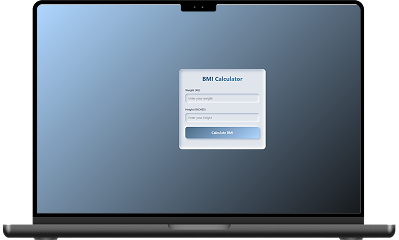
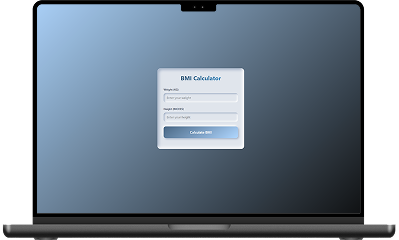
latestwork part responsive add

Changed region(s): [[0.391, 0.2625, 0.6917, 0.6417], [0.5414, 0.0, 0.9023, 0.0292], [0.1203, 0.0, 0.4511, 0.0292]]

diff --git a/src/Components/LatestWorks/LatestWork.jsx b/src/Components/LatestWorks/LatestWork.jsx
@@ -12,16 +12,16 @@ const LatestWork = () => {
         <section className='px-4 bg-dark relative'>
             <Conteiner>
                 <div>
-                    <h2 className='relative bg-dark z-10 text-[40px] font-bold font-button w-max mx-auto text-center text-primary py-2 px-5 border-b-2 border-primary'>Latest Works</h2>
+                    <h2 className='relative bg-dark z-10 text-3xl sm:text-[40px] font-bold font-button w-max mx-auto text-center text-primary py-2 px-5 sm:border-b-2 border-primary'>Latest Works</h2>
                 </div>
-                <div className='flex gap-[80px] items-center relative'>
-                    <div className='h-[1px] left-1/4 right-1/2 bg-[#373AA0] absolute top-1/2'></div>
-                    <div className='h-4 w-4 rounded-full border-[3px] border-[#373AA0] absolute left-1/2 -translate-x-1/2 bg-dark z-10 cursor-pointer hover:scale-115 ease-in-out duration-100'></div>
-                    <div className='w-full flex mt-2.5'>
-                        <span className='relative group hover:scale-105 ease-in-out duration-200'>
+                <div className='flex flex-col sm:flex-row gap-4 sm:gap-[80px] items-center relative mt-11 sm:mt-0'>
+                    <div className='hidden sm:block h-[1px] left-1/4 right-1/2 bg-[#373AA0] absolute top-1/2'></div>
+                    <div className='hidden sm:block h-4 w-4 rounded-full border-[3px] border-[#373AA0] absolute left-1/2 -translate-x-1/2 bg-dark z-10 cursor-pointer hover:scale-115 ease-in-out duration-100'></div>
+                    <div className='w-full justify-center sm:justify-start flex mt-2.5'>
+                        <span className='relative group sm:hover:scale-105 ease-in-out duration-200'>
                             <a href="#" className=''>
                                 <img src={Innovate} alt="" />
-                                <div className='tooltip bg-[#373AA0] text-white py-2 px-5 font-semibold rounded-[5px] font-button items-center absolute top-[-16px] left-1/2 -translate-x-1/2 after:content[""] after:absolute after:w-[16px] after:h-[16px] after:left-1/2 after:-translate-x-1/2 after:bottom-[-8px] after:rotate-45 after:bg-[#373AA0] group-hover:top-[-55px] group-hover:opacity-100 ease-in-out duration-200 opacity-0'>
+                                <div className='tooltip bg-[#373AA0] text-white text-sm sm:text-base py-2 px-5 mt-2.5 sm:mt-0 font-semibold rounded w-max mx-auto font-button items-center sm:absolute top-[-16px] left-1/2 sm:-translate-x-1/2 after:content[""] after:hidden sm:after:block after:absolute after:w-[16px] after:h-[16px] after:left-1/2 after:-translate-x-1/2 after:bottom-[-8px] after:rotate-45 after:bg-[#373AA0] group-hover:top-[-55px] group-hover:opacity-100 ease-in-out duration-200 opacity-100 sm:opacity-0'>
                                     <span className='relative z-10 flex items-center gap-1'>
                                         Innovate
                                         <FiExternalLink />
@@ -31,29 +31,29 @@ const LatestWork = () => {
                         </span>
                     </div>
                     <div className='w-full'>
-                        <h3 className='font-button font-bold text-4xl text-[#373AA0] mt-8 mb-[7px]'>Innovate</h3>
-                        <span className='font-button text-lg text-[#373AA0]'>(Management Tool)</span>
-                        <p className='font-button text-justify text-white my-4 max-w-[584.594px]'>This project was created React.This is my first project made with React and this is a helpful site for everyone.</p>
+                        <h3 className='font-button font-bold text-2xl md:text-4xl text-[#373AA0] mt-4 mb-1 md:mt-8 md:mb-[7px]'>Innovate</h3>
+                        <span className='font-button text-base md:text-lg text-[#373AA0]'>(Management Tool)</span>
+                        <p className='font-button text-justify text-white text-sm md:text-base my-2.5 md:my-4 max-w-[584.594px]'>This project was created React.This is my first project made with React and this is a helpful site for everyone.</p>
                         <ul className='flex flex-wrap font-button text-white my-3.5'>
-                            <li className='border border-[#444] py-[5.5px] px-[10px] mb-[6.8px] mr-[6.8px] rounded-[50px] text-[13.6px]'>#javascript</li>
-                            <li className='border border-[#444] py-[5.5px] px-[10px] mb-[6.8px] mr-[6.8px] rounded-[50px] text-[13.6px]'>#react.js</li>
-                            <li className='border border-[#444] py-[5.5px] px-[10px] mb-[6.8px] mr-[6.8px] rounded-[50px] text-[13.6px]'>#html</li>
-                            <li className='border border-[#444] py-[5.5px] px-[10px] mb-[6.8px] mr-[6.8px] rounded-[50px] text-[13.6px]'>#css</li>
-                            <li className='border border-[#444] py-[5.5px] px-[10px] mb-[6.8px] mr-[6.8px] rounded-[50px] text-[13.6px]'>#tailwind</li>
-                            <li className='border border-[#444] py-[5.5px] px-[10px] mb-[6.8px] mr-[6.8px] rounded-[50px] text-[13.6px]'>#github</li>
-                            <li className='border border-[#444] py-[5.5px] px-[10px] mb-[6.8px] mr-[6.8px] rounded-[50px] text-[13.6px]'>#git</li>
-                            <li className='border border-[#444] py-[5.5px] px-[10px] mb-[6.8px] mr-[6.8px] rounded-[50px] text-[13.6px]'>#figma</li>
+                            <li className='border border-[#444] py-[5.5px] px-[10px] mb-[6.8px] mr-[6.8px] rounded-[50px] text-sm md:text-base'>#javascript</li>
+                            <li className='border border-[#444] py-[5.5px] px-[10px] mb-[6.8px] mr-[6.8px] rounded-[50px] text-sm md:text-base'>#react.js</li>
+                            <li className='border border-[#444] py-[5.5px] px-[10px] mb-[6.8px] mr-[6.8px] rounded-[50px] text-sm md:text-base'>#html</li>
+                            <li className='border border-[#444] py-[5.5px] px-[10px] mb-[6.8px] mr-[6.8px] rounded-[50px] text-sm md:text-base'>#css</li>
+                            <li className='border border-[#444] py-[5.5px] px-[10px] mb-[6.8px] mr-[6.8px] rounded-[50px] text-sm md:text-base'>#tailwind</li>
+                            <li className='border border-[#444] py-[5.5px] px-[10px] mb-[6.8px] mr-[6.8px] rounded-[50px] text-sm md:text-base'>#github</li>
+                            <li className='border border-[#444] py-[5.5px] px-[10px] mb-[6.8px] mr-[6.8px] rounded-[50px] text-sm md:text-base'>#git</li>
+                            <li className='border border-[#444] py-[5.5px] px-[10px] mb-[6.8px] mr-[6.8px] rounded-[50px] text-sm md:text-base'>#figma</li>
                         </ul>
                     </div>
                 </div>
-                <div className='flex flex-row-reverse gap-[80px] items-center relative mt-[58px]'>
-                    <div className='h-[1px] right-1/4 left-1/2 bg-[#2B8761] absolute top-1/2'></div>
-                    <div className='h-4 w-4 rounded-full border-[3px] border-[#2B8761] absolute left-1/2 -translate-x-1/2 bg-dark z-10 cursor-pointer hover:scale-115 ease-in-out duration-100'></div>
-                    <div className='w-full justify-end flex mt-2.5'>
-                        <span className='relative group hover:scale-105 ease-in-out duration-200'>
+                <div className='flex flex-col sm:flex-row-reverse gap-4 sm:gap-[80px] items-center relative mt-11 sm:mt-[58px]'>
+                    <div className='hidden sm:block h-[1px] right-1/4 left-1/2 bg-[#2B8761] absolute top-1/2'></div>
+                    <div className='hidden sm:block h-4 w-4 rounded-full border-[3px] border-[#2B8761] absolute left-1/2 -translate-x-1/2 bg-dark z-10 cursor-pointer hover:scale-115 ease-in-out duration-100'></div>
+                    <div className='w-full justify-center sm:justify-end flex mt-2.5'>
+                        <span className='relative group sm:hover:scale-105 ease-in-out duration-200'>
                             <a href="#" className=''>
                                 <img src={cleaning} alt="" />
-                                <div className='tooltip bg-[#2B8761] text-black py-2 px-5 font-semibold rounded-[5px] font-button items-center absolute top-[-16px] left-1/2 -translate-x-1/2 after:content[""] after:absolute after:w-[16px] after:h-[16px] after:left-1/2 after:-translate-x-1/2 after:bottom-[-8px] after:rotate-45 after:bg-[#2B8761] group-hover:top-[-55px] group-hover:opacity-100 ease-in-out duration-200 opacity-0'>
+                                <div className='tooltip bg-[#2B8761] text-black text-sm sm:text-base py-2 px-5 mt-2.5 sm:mt-0 font-semibold rounded w-max mx-auto font-button items-center sm:absolute top-[-16px] left-1/2 sm:-translate-x-1/2 after:content[""] after:hidden sm:after:block after:absolute after:w-[16px] after:h-[16px] after:left-1/2 after:-translate-x-1/2 after:bottom-[-8px] after:rotate-45 after:bg-[#2B8761] group-hover:top-[-55px] group-hover:opacity-100 ease-in-out duration-200 opacity-100 sm:opacity-0'>
                                     <span className='relative z-10 flex items-center gap-1'>
                                         Cleaning
                                         <FiExternalLink />
@@ -63,28 +63,28 @@ const LatestWork = () => {
                         </span>
                     </div>
                     <div className='w-full'>
-                        <h3 className='font-button font-bold text-4xl text-[#2B8761] mt-8 mb-[7px]'>Cleaning</h3>
-                        <span className='font-button text-lg text-[#2B8761]'>(Digital Marketing Agency)</span>
+                        <h3 className='font-button font-bold text-2xl md:text-4xl text-[#2B8761] mt-8 mb-[7px]'>Cleaning</h3>
+                        <span className='font-button text-base md:text-lg text-[#2B8761]'>(Digital Marketing Agency)</span>
                         <p className='font-button text-justify text-white my-4 max-w-[584.594px]'>This project was created Bootstrap .This is my first project made with Bootstrap and this is a helpful site for everyone .</p>
                         <ul className='flex flex-wrap font-button text-white my-3.5'>
-                            <li className='border border-[#444] py-[5.5px] px-[10px] mb-[6.8px] mr-[6.8px] rounded-[50px] text-[13.6px]'>#javascript</li>
-                            <li className='border border-[#444] py-[5.5px] px-[10px] mb-[6.8px] mr-[6.8px] rounded-[50px] text-[13.6px]'>#html</li>
-                            <li className='border border-[#444] py-[5.5px] px-[10px] mb-[6.8px] mr-[6.8px] rounded-[50px] text-[13.6px]'>#css</li>
-                            <li className='border border-[#444] py-[5.5px] px-[10px] mb-[6.8px] mr-[6.8px] rounded-[50px] text-[13.6px]'>#bootstrap</li>
-                            <li className='border border-[#444] py-[5.5px] px-[10px] mb-[6.8px] mr-[6.8px] rounded-[50px] text-[13.6px]'>#github</li>
-                            <li className='border border-[#444] py-[5.5px] px-[10px] mb-[6.8px] mr-[6.8px] rounded-[50px] text-[13.6px]'>#git</li>
-                            <li className='border border-[#444] py-[5.5px] px-[10px] mb-[6.8px] mr-[6.8px] rounded-[50px] text-[13.6px]'>#figma</li>
+                            <li className='border border-[#444] py-[5.5px] px-[10px] mb-[6.8px] mr-[6.8px] rounded-[50px] text-sm md:text-base'>#javascript</li>
+                            <li className='border border-[#444] py-[5.5px] px-[10px] mb-[6.8px] mr-[6.8px] rounded-[50px] text-sm md:text-base'>#html</li>
+                            <li className='border border-[#444] py-[5.5px] px-[10px] mb-[6.8px] mr-[6.8px] rounded-[50px] text-sm md:text-base'>#css</li>
+                            <li className='border border-[#444] py-[5.5px] px-[10px] mb-[6.8px] mr-[6.8px] rounded-[50px] text-sm md:text-base'>#bootstrap</li>
+                            <li className='border border-[#444] py-[5.5px] px-[10px] mb-[6.8px] mr-[6.8px] rounded-[50px] text-sm md:text-base'>#github</li>
+                            <li className='border border-[#444] py-[5.5px] px-[10px] mb-[6.8px] mr-[6.8px] rounded-[50px] text-sm md:text-base'>#git</li>
+                            <li className='border border-[#444] py-[5.5px] px-[10px] mb-[6.8px] mr-[6.8px] rounded-[50px] text-sm md:text-base'>#figma</li>
                         </ul>
                     </div>
                 </div>
-                <div className='flex gap-[80px] items-center relative mt-[58px]'>
-                    <div className='h-[1px] left-1/4 right-1/2 bg-[#6A4DF4] absolute top-1/2'></div>
-                    <div className='h-4 w-4 rounded-full border-[3px] border-[#6A4DF4] absolute left-1/2 -translate-x-1/2 bg-dark z-10 cursor-pointer hover:scale-115 ease-in-out duration-100'></div>
-                    <div className='w-full flex mt-2.5'>
-                        <span className='relative group hover:scale-105 ease-in-out duration-200'>
+                <div className='flex flex-col sm:flex-row gap-4 sm:gap-[80px] items-center relative mt-11 sm:mt-[58px]'>
+                    <div className='hidden sm:block h-[1px] left-1/4 right-1/2 bg-[#6A4DF4] absolute top-1/2'></div>
+                    <div className='hidden sm:block h-4 w-4 rounded-full border-[3px] border-[#6A4DF4] absolute left-1/2 -translate-x-1/2 bg-dark z-10 cursor-pointer hover:scale-115 ease-in-out duration-100'></div>
+                    <div className='w-full justify-center sm:justify-start flex mt-2.5'>
+                        <span className='relative group sm:hover:scale-105 ease-in-out duration-200'>
                             <a href="#" className=''>
                                 <img src={Agence} alt="" />
-                                <div className='tooltip bg-[#6A4DF4] text-white py-2 px-5 font-semibold rounded-[5px] font-button items-center absolute top-[-16px] left-1/2 -translate-x-1/2 after:content[""] after:absolute after:w-[16px] after:h-[16px] after:left-1/2 after:-translate-x-1/2 after:bottom-[-8px] after:rotate-45 after:bg-[#6A4DF4] group-hover:top-[-55px] group-hover:opacity-100 ease-in-out duration-200 opacity-0'>
+                                <div className='tooltip bg-[#6A4DF4] text-white text-sm sm:text-base py-2 px-5 mt-2.5 sm:mt-0 font-semibold rounded w-max mx-auto font-button items-center sm:absolute top-[-16px] left-1/2 sm:-translate-x-1/2 after:content[""] after:hidden sm:after:block after:absolute after:w-[16px] after:h-[16px] after:left-1/2 after:-translate-x-1/2 after:bottom-[-8px] after:rotate-45 after:bg-[#6A4DF4] group-hover:top-[-55px] group-hover:opacity-100 ease-in-out duration-200 opacity-100 sm:opacity-0'>
                                     <span className='relative z-10 flex items-center gap-1'>
                                         Agence
                                         <FiExternalLink />
@@ -94,28 +94,28 @@ const LatestWork = () => {
                         </span>
                     </div>
                     <div className='w-full'>
-                        <h3 className='font-button font-bold text-4xl text-[#6A4DF4] mt-8 mb-[7px]'>Agence</h3>
-                        <span className='font-button text-lg text-[#6A4DF4]'>(Digital Marketing Agency)</span>
+                        <h3 className='font-button font-bold text-2xl md:text-4xl text-[#6A4DF4] mt-8 mb-[7px]'>Agence</h3>
+                        <span className='font-button text-base md:text-lg text-[#6A4DF4]'>(Digital Marketing Agency)</span>
                         <p className='font-button text-justify text-white my-4 max-w-[584.594px]'>This project was created Bootstrap.This is my second project made with Bootstrap and this is a helpful site for everyone.</p>
                         <ul className='flex flex-wrap font-button text-white my-3.5'>
-                            <li className='border border-[#444] py-[5.5px] px-[10px] mb-[6.8px] mr-[6.8px] rounded-[50px] text-[13.6px]'>#javascript</li>
-                            <li className='border border-[#444] py-[5.5px] px-[10px] mb-[6.8px] mr-[6.8px] rounded-[50px] text-[13.6px]'>#html</li>
-                            <li className='border border-[#444] py-[5.5px] px-[10px] mb-[6.8px] mr-[6.8px] rounded-[50px] text-[13.6px]'>#css</li>
-                            <li className='border border-[#444] py-[5.5px] px-[10px] mb-[6.8px] mr-[6.8px] rounded-[50px] text-[13.6px]'>#bootstrap</li>
-                            <li className='border border-[#444] py-[5.5px] px-[10px] mb-[6.8px] mr-[6.8px] rounded-[50px] text-[13.6px]'>#github</li>
-                            <li className='border border-[#444] py-[5.5px] px-[10px] mb-[6.8px] mr-[6.8px] rounded-[50px] text-[13.6px]'>#git</li>
-                            <li className='border border-[#444] py-[5.5px] px-[10px] mb-[6.8px] mr-[6.8px] rounded-[50px] text-[13.6px]'>#figma</li>
+                            <li className='border border-[#444] py-[5.5px] px-[10px] mb-[6.8px] mr-[6.8px] rounded-[50px] text-sm md:text-base'>#javascript</li>
+                            <li className='border border-[#444] py-[5.5px] px-[10px] mb-[6.8px] mr-[6.8px] rounded-[50px] text-sm md:text-base'>#html</li>
+                            <li className='border border-[#444] py-[5.5px] px-[10px] mb-[6.8px] mr-[6.8px] rounded-[50px] text-sm md:text-base'>#css</li>
+                            <li className='border border-[#444] py-[5.5px] px-[10px] mb-[6.8px] mr-[6.8px] rounded-[50px] text-sm md:text-base'>#bootstrap</li>
+                            <li className='border border-[#444] py-[5.5px] px-[10px] mb-[6.8px] mr-[6.8px] rounded-[50px] text-sm md:text-base'>#github</li>
+                            <li className='border border-[#444] py-[5.5px] px-[10px] mb-[6.8px] mr-[6.8px] rounded-[50px] text-sm md:text-base'>#git</li>
+                            <li className='border border-[#444] py-[5.5px] px-[10px] mb-[6.8px] mr-[6.8px] rounded-[50px] text-sm md:text-base'>#figma</li>
                         </ul>
                     </div>
                 </div>
-                <div className='flex flex-row-reverse gap-[80px] items-center relative mt-[58px]'>
-                    <div className='flex h-[1px] right-[27%] left-1/2 bg-[#2c3e50] absolute top-1/2'></div>
-                    <div className='h-4 w-4 rounded-full border-[3px] border-[#2c3e50] absolute left-1/2 -translate-x-1/2 bg-dark z-10 cursor-pointer hover:scale-115 ease-in-out duration-100'></div>
-                    <div className='w-full justify-end flex mt-2.5'>
-                        <span className='relative group hover:scale-105 ease-in-out duration-200'>
+                <div className='flex flex-col sm:flex-row-reverse gap-4 sm:gap-[80px] items-center relative mt-11 sm:mt-[58px]'>
+                    <div className='hidden sm:block h-[1px] right-[27%] left-1/2 bg-[#2c3e50] absolute top-1/2'></div>
+                    <div className='hidden sm:block h-4 w-4 rounded-full border-[3px] border-[#2c3e50] absolute left-1/2 -translate-x-1/2 bg-dark z-10 cursor-pointer hover:scale-115 ease-in-out duration-100'></div>
+                    <div className='w-full justify-center sm:justify-end flex mt-2.5'>
+                        <span className='relative group sm:hover:scale-105 ease-in-out duration-200'>
                             <a href="#" className=''>
                                 <img src={BMI_Calculator} alt="" />
-                                <div className='tooltip bg-[#2c3e50] text-white py-2 px-5 font-semibold rounded-[5px] font-button items-center absolute top-[-16px] left-1/2 -translate-x-1/2 after:content[""] after:absolute after:w-[16px] after:h-[16px] after:left-1/2 after:-translate-x-1/2 after:bottom-[-8px] after:rotate-45 after:bg-[#2c3e50] group-hover:top-[-55px] group-hover:opacity-100 ease-in-out duration-200 opacity-0'>
+                                <div className='tooltip bg-[#2c3e50] text-white text-sm sm:text-base py-2 px-5 mt-2.5 sm:mt-0 font-semibold rounded w-max mx-auto font-button items-center sm:absolute top-[-16px] left-1/2 sm:-translate-x-1/2 after:content[""] after:hidden sm:after:block after:absolute after:w-[16px] after:h-[16px] after:left-1/2 after:-translate-x-1/2 after:bottom-[-8px] after:rotate-45 after:bg-[#2c3e50] group-hover:top-[-55px] group-hover:opacity-100 ease-in-out duration-200 opacity-100 sm:opacity-0'>
                                     <span className='relative z-10 flex items-center gap-1'>
                                         Cleaning
                                         <FiExternalLink />
@@ -125,28 +125,28 @@ const LatestWork = () => {
                         </span>
                     </div>
                     <div className='w-full'>
-                        <h3 className='font-button font-bold text-4xl text-[#2c3e50] mt-8 mb-[7px]'>BMI Calculator</h3>
-                        <span className='font-button text-lg text-[#2c3e50]'>(BMI Checker)</span>
+                        <h3 className='font-button font-bold text-2xl md:text-4xl text-[#2c3e50] mt-8 mb-[7px]'>BMI Calculator</h3>
+                        <span className='font-button text-base md:text-lg text-[#2c3e50]'>(BMI Checker)</span>
                         <p className='font-button text-justify text-white my-4 max-w-[584.594px]'>This project was created Bootstrap .This project is made with JavaScript and this is a helpful site for everyone .</p>
                         <ul className='flex flex-wrap font-button text-white my-3.5'>
-                            <li className='border border-[#444] py-[5.5px] px-[10px] mb-[6.8px] mr-[6.8px] rounded-[50px] text-[13.6px]'>#javascript</li>
-                            <li className='border border-[#444] py-[5.5px] px-[10px] mb-[6.8px] mr-[6.8px] rounded-[50px] text-[13.6px]'>#html</li>
-                            <li className='border border-[#444] py-[5.5px] px-[10px] mb-[6.8px] mr-[6.8px] rounded-[50px] text-[13.6px]'>#css</li>
-                            <li className='border border-[#444] py-[5.5px] px-[10px] mb-[6.8px] mr-[6.8px] rounded-[50px] text-[13.6px]'>#bootstrap</li>
-                            <li className='border border-[#444] py-[5.5px] px-[10px] mb-[6.8px] mr-[6.8px] rounded-[50px] text-[13.6px]'>#github</li>
-                            <li className='border border-[#444] py-[5.5px] px-[10px] mb-[6.8px] mr-[6.8px] rounded-[50px] text-[13.6px]'>#git</li>
-                            <li className='border border-[#444] py-[5.5px] px-[10px] mb-[6.8px] mr-[6.8px] rounded-[50px] text-[13.6px]'>#figma</li>
+                            <li className='border border-[#444] py-[5.5px] px-[10px] mb-[6.8px] mr-[6.8px] rounded-[50px] text-sm md:text-base'>#javascript</li>
+                            <li className='border border-[#444] py-[5.5px] px-[10px] mb-[6.8px] mr-[6.8px] rounded-[50px] text-sm md:text-base'>#html</li>
+                            <li className='border border-[#444] py-[5.5px] px-[10px] mb-[6.8px] mr-[6.8px] rounded-[50px] text-sm md:text-base'>#css</li>
+                            <li className='border border-[#444] py-[5.5px] px-[10px] mb-[6.8px] mr-[6.8px] rounded-[50px] text-sm md:text-base'>#bootstrap</li>
+                            <li className='border border-[#444] py-[5.5px] px-[10px] mb-[6.8px] mr-[6.8px] rounded-[50px] text-sm md:text-base'>#github</li>
+                            <li className='border border-[#444] py-[5.5px] px-[10px] mb-[6.8px] mr-[6.8px] rounded-[50px] text-sm md:text-base'>#git</li>
+                            <li className='border border-[#444] py-[5.5px] px-[10px] mb-[6.8px] mr-[6.8px] rounded-[50px] text-sm md:text-base'>#figma</li>
                         </ul>
                     </div>
                 </div>
-                <div className='flex gap-[80px] items-center relative mt-[58px]'>
-                    <div className='h-[1px] left-1/4 right-1/2 bg-[#f41b75] absolute top-1/2'></div>
-                    <div className='h-4 w-4 rounded-full border-[3px] border-[#f41b75] absolute left-1/2 -translate-x-1/2 bg-dark z-10 cursor-pointer hover:scale-115 ease-in-out duration-100'></div>
-                    <div className='w-full flex mt-2.5'>
-                        <span className='relative group hover:scale-105 ease-in-out duration-200'>
+                <div className='flex flex-col sm:flex-row gap-4 sm:gap-[80px] items-center relative mt-11 sm:mt-[58px]'>
+                    <div className='hidden sm:block h-[1px] left-1/4 right-1/2 bg-[#f41b75] absolute top-1/2'></div>
+                    <div className='hidden sm:block h-4 w-4 rounded-full border-[3px] border-[#f41b75] absolute left-1/2 -translate-x-1/2 bg-dark z-10 cursor-pointer hover:scale-115 ease-in-out duration-100'></div>
+                    <div className='w-full justify-center sm:justify-start flex mt-2.5'>
+                        <span className='relative group sm:hover:scale-105 ease-in-out duration-200'>
                             <a href="#" className=''>
                                 <img src={Digital_Clock} alt="" />
-                                <div className='tooltip bg-[#f41b75] text-black py-2 px-5 font-semibold rounded-[5px] font-button items-center absolute top-[-16px] left-1/2 -translate-x-1/2 after:content[""] after:absolute after:w-[16px] after:h-[16px] after:left-1/2 after:-translate-x-1/2 after:bottom-[-8px] after:rotate-45 after:bg-[#f41b75] group-hover:top-[-55px] group-hover:opacity-100 ease-in-out duration-200 opacity-0'>
+                                <div className='tooltip bg-[#f41b75] text-black text-sm sm:text-base py-2 px-5 mt-2.5 sm:mt-0 font-semibold rounded w-max mx-auto font-button items-center sm:absolute top-[-16px] left-1/2 sm:-translate-x-1/2 after:content[""] after:hidden sm:after:block after:absolute after:w-[16px] after:h-[16px] after:left-1/2 after:-translate-x-1/2 after:bottom-[-8px] after:rotate-45 after:bg-[#f41b75] group-hover:top-[-55px] group-hover:opacity-100 ease-in-out duration-200 opacity-100 sm:opacity-0'>
                                     <span className='relative z-10 flex items-center gap-1'>
                                         Digital Clock
                                         <FiExternalLink />
@@ -156,21 +156,21 @@ const LatestWork = () => {
                         </span>
                     </div>
                     <div className='w-full'>
-                        <h3 className='font-button font-bold text-4xl text-[#f41b75] mt-8 mb-[7px]'>Digital Clock</h3>
-                        <span className='font-button text-lg text-[#f41b75]'>(Digital Clock)</span>
+                        <h3 className='font-button font-bold text-2xl md:text-4xl text-[#f41b75] mt-8 mb-[7px]'>Digital Clock</h3>
+                        <span className='font-button text-base md:text-lg text-[#f41b75]'>(Digital Clock)</span>
                         <p className='font-button text-justify text-white my-4 max-w-[584.594px]'>This project was created Bootstrap.This is my second project made with Bootstrap and this is a helpful site for everyone.</p>
                         <ul className='flex flex-wrap font-button text-white my-3.5'>
-                            <li className='border border-[#444] py-[5.5px] px-[10px] mb-[6.8px] mr-[6.8px] rounded-[50px] text-[13.6px]'>#javascript</li>
-                            <li className='border border-[#444] py-[5.5px] px-[10px] mb-[6.8px] mr-[6.8px] rounded-[50px] text-[13.6px]'>#html</li>
-                            <li className='border border-[#444] py-[5.5px] px-[10px] mb-[6.8px] mr-[6.8px] rounded-[50px] text-[13.6px]'>#css</li>
-                            <li className='border border-[#444] py-[5.5px] px-[10px] mb-[6.8px] mr-[6.8px] rounded-[50px] text-[13.6px]'>#bootstrap</li>
-                            <li className='border border-[#444] py-[5.5px] px-[10px] mb-[6.8px] mr-[6.8px] rounded-[50px] text-[13.6px]'>#github</li>
-                            <li className='border border-[#444] py-[5.5px] px-[10px] mb-[6.8px] mr-[6.8px] rounded-[50px] text-[13.6px]'>#git</li>
-                            <li className='border border-[#444] py-[5.5px] px-[10px] mb-[6.8px] mr-[6.8px] rounded-[50px] text-[13.6px]'>#figma</li>
+                            <li className='border border-[#444] py-[5.5px] px-[10px] mb-[6.8px] mr-[6.8px] rounded-[50px] text-sm md:text-base'>#javascript</li>
+                            <li className='border border-[#444] py-[5.5px] px-[10px] mb-[6.8px] mr-[6.8px] rounded-[50px] text-sm md:text-base'>#html</li>
+                            <li className='border border-[#444] py-[5.5px] px-[10px] mb-[6.8px] mr-[6.8px] rounded-[50px] text-sm md:text-base'>#css</li>
+                            <li className='border border-[#444] py-[5.5px] px-[10px] mb-[6.8px] mr-[6.8px] rounded-[50px] text-sm md:text-base'>#bootstrap</li>
+                            <li className='border border-[#444] py-[5.5px] px-[10px] mb-[6.8px] mr-[6.8px] rounded-[50px] text-sm md:text-base'>#github</li>
+                            <li className='border border-[#444] py-[5.5px] px-[10px] mb-[6.8px] mr-[6.8px] rounded-[50px] text-sm md:text-base'>#git</li>
+                            <li className='border border-[#444] py-[5.5px] px-[10px] mb-[6.8px] mr-[6.8px] rounded-[50px] text-sm md:text-base'>#figma</li>
                         </ul>
                     </div>
                 </div>
-                <div className='w-[2px] bg-primary absolute top-0 bottom-0 left-1/2 -translate-x-1/2'></div>
+                <div className='w-[2px] hidden sm:block bg-primary absolute top-0 bottom-0 left-1/2 -translate-x-1/2'></div>
             </Conteiner>
         </section>
     )

diff --git a/src/Components/Navbar/Navbar.jsx b/src/Components/Navbar/Navbar.jsx
@@ -73,19 +73,19 @@ const Navbar = () => {
         </Conteiner>
         <ul className=' ml-auto space-y-6 absolute right-8'>
           <li>
-            <a href="#"><FaLinkedinIn size={35} className='text-[#b0b2c3] hover:text-white ' /></a>
+            <a href="#"><FaLinkedinIn size={35} className='text-[#b0b2c3] hover:text-white ease-in-out duration-200' /></a>
           </li>
           <li>
-            <a href="#"><FaTwitter size={35} className='text-[#b0b2c3] hover:text-white ' /></a>
+            <a href="#"><FaTwitter size={35} className='text-[#b0b2c3] hover:text-white ease-in-out duration-200' /></a>
           </li>
           <li>
-            <a href=""><GrInstagram size={35} className='text-[#b0b2c3] hover:text-white' /></a>
+            <a href=""><GrInstagram size={35} className='text-[#b0b2c3] hover:text-white ease-in-out duration-200' /></a>
           </li>
           <li>
-            <a href="#"><LuMail size={35} className='text-[#b0b2c3] hover:text-white' /></a>
+            <a href="#"><LuMail size={35} className='text-[#b0b2c3] hover:text-white ease-in-out duration-200' /></a>
           </li>
           <li>
-            <a href="#"><SiGithub size={35} className='text-[#b0b2c3] hover:text-white' /></a>
+            <a href="#"><SiGithub size={35} className='text-[#b0b2c3] hover:text-white ease-in-out duration-200' /></a>
           </li>
         </ul>
       </div>
